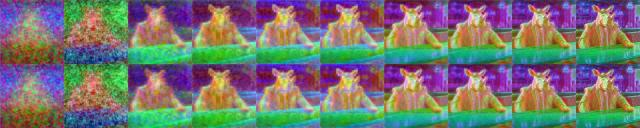
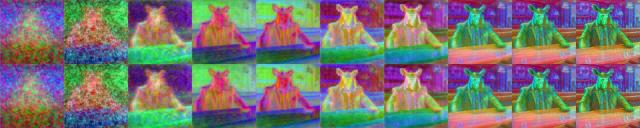
backup

diff --git a/pnp_xl.py b/pnp_xl.py
@@ -55,7 +55,7 @@ logger.add(
     format=f"{green_color_start}{{message}}{green_color_end}",
     level="INFO",
 )
-
+_EPS = 1e-12
 parser = argparse.ArgumentParser()
 parser.add_argument('--prompt', type=str, default="leaning tower of pisa on moon")
 parser.add_argument('--attn_layer', type=str, default="block1-attn2-trans1")
@@ -153,20 +153,22 @@ class StableDiffusion:
             torch.float16 if self.cfg.half_precision_weights else torch.float32
         )
         
-        self.device = torch.device("cuda")
         self.pipe = StableDiffusionXLPipeline.from_pretrained(
                 self.cfg.pretrained_model_name_or_path,
                 torch_dtype=self.weights_dtype, 
             ).to(self.device)
        
-        self.self_attn_map_t = []
-        self.deformed_self_attn_map_t = []
-
-        self.cross_attn_map_t = []
-        self.deformed_cross_attn_map_t = []
-
-        self.feature_maps_t = []
-        self.deformed_feature_maps_t = []
+       
+        attributes = [
+            "self_attn_map_t", 
+            "deformed_self_attn_map_t",
+            "cross_attn_map_t", 
+            "deformed_cross_attn_map_t",
+            "feature_maps_t", 
+            "deformed_feature_maps_t"
+        ]
+        for attr in attributes:
+            setattr(self, attr, [])
         self.np_to_torch = transforms.Compose([transforms.ToTensor()])
 
     @property
@@ -344,8 +346,8 @@ class StableDiffusion:
         self.register_attention(handles, targets)
         self.register_conv(handles, targets)
         if args.deformed:
-            deformer = MeshDeformator(64, 
-                                      64)
+            deformer = MeshDeformator(32, 
+                                      32)
             deformer.find_weights(handles, targets)
             self.coords = deformer.find_deformed_coords()
         for i, t in enumerate(tqdm(timesteps)):
@@ -378,7 +380,14 @@ class StableDiffusion:
 
             # compute the previous noisy sample x_t -> x_t-1
             latents = self.scheduler.step(noise_pred, t, latents, **extra_step_kwargs, return_dict=False)[0]
+            # is_deformed = t in self.deformed_at_t
+            # if is_deformed:
+            #     out = self.vae.decode(latents / self.vae.config.scaling_factor, return_dict=False)[0]
+            #     out = (out / 2 + 0.5).clamp(0, 1).float()
             
+            #     out = out.permute([0, 2, 3, 1]).detach().cpu().numpy()
+            #     plt.imsave("./cu2.jpg", out[0])
+            #     exit()
             
         img = self.vae.decode(latents / self.vae.config.scaling_factor, return_dict=False)[0]
        
@@ -386,18 +395,10 @@ class StableDiffusion:
 
         
 
-        grid_self_attn = self.concatenate_grids(
-            self.create_grid(self.self_attn_map_t), 
-            self.create_grid(self.deformed_self_attn_map_t)
-        )
-        grid_feature_maps = self.concatenate_grids(
-            self.create_grid(self.feature_maps_t), 
-            self.create_grid(self.deformed_feature_maps_t)
-        )
-        grid_cross_attn = self.concatenate_grids(
-            self.create_grid(self.cross_attn_map_t), 
-            self.create_grid(self.deformed_cross_attn_map_t)
-        )
+        grid_self_attn = self._generate_grid(self.self_attn_map_t, self.deformed_self_attn_map_t)
+        grid_feature_maps = self._generate_grid(self.feature_maps_t, self.deformed_feature_maps_t)
+        grid_cross_attn = self._generate_grid(self.cross_attn_map_t, self.deformed_cross_attn_map_t)
+
         return {
             "img": img,
             "self_attn_map_t": grid_self_attn,
@@ -490,13 +491,16 @@ class StableDiffusion:
                     
 
                 is_deformed = args.deformed and module.t in self.deformed_at_t
+                
                 if is_deformed:
                     logger.info("Deform self attention maps")
                     dim = int(sqrt(sim.shape[1]))
 
-                    reshaped_sim = rearrange(sim, 'b (h w) d -> b h w d', h=dim, w=dim).permute([0, 3, 1, 2])
+                    reshaped_sim = rearrange(sim, 'b (h w) d -> b d h w', h=dim, w=dim)
 
                     # Transform the reshaped attention map based on the coordinates
+                    #self.coords = torch.ones_like(self.coords)
+                
                     sim_deformed = F.grid_sample(
                         reshaped_sim, 
                         self.coords.repeat([reshaped_sim.shape[0], 1, 1, 1]), 
@@ -505,7 +509,7 @@ class StableDiffusion:
                     )
                     
                     self_attn_map = rearrange(sim_deformed, 'b d h w-> b (h w) d').softmax(dim=-1)
-
+                    
                 if module.t in self.visualization_at_t:
                     deformed_attn_map = process_and_visualize(self_attn_map)
                     target_list = self.deformed_cross_attn_map_t if is_cross else self.deformed_self_attn_map_t
@@ -519,14 +523,20 @@ class StableDiffusion:
                     sim.masked_fill_(~attention_mask, max_neg_value)
 
                 out = torch.einsum("b i j, b j d -> b i d", self_attn_map, v)
-                
+                # if module.t in self.visualization_at_t[-1:]:
+                #     m = process_and_visualize(out)
+                #     print(m.shape)
+                #     m = m.detach().permute([1, 2, 0]).cpu().numpy()
+                #     plt.imsave("./test.jpg", m)
+                #     exit()
                 out = module.batch_to_head_dim(out)
-                
-                return to_out(out)  
+                out = to_out(out)
+                #out = - 1 * torch.ones_like(out)
+                #out = torch.zeros_like(out)
+                return out
 
             return forward
-        
-        
+       
         numbers = [int(i) for i in re.findall(r'\d+', args.attn_layer)]
         up_blocks_dict = {numbers[0]: {numbers[1]: [numbers[2]]}}
         
@@ -535,10 +545,10 @@ class StableDiffusion:
         setattr(module, 'handles', handles)
         setattr(module, 'targets', targets)
 
-        module = self.unet.up_blocks[numbers[0]].attentions[numbers[1]].transformer_blocks[numbers[2]].attn2
-        module.forward = sa_forward(module)
-        setattr(module, 'handles', handles)
-        setattr(module, 'targets', targets)
+        # module = self.unet.up_blocks[numbers[0]].attentions[numbers[1]].transformer_blocks[numbers[2]].attn2
+        # module.forward = sa_forward(module)
+        # setattr(module, 'handles', handles)
+        # setattr(module, 'targets', targets)
 
     def visualize(self, feature_maps):
         
@@ -548,7 +558,7 @@ class StableDiffusion:
         
         min_vals = feature_maps_pca.min(axis=(0, 1))
         max_vals = feature_maps_pca.max(axis=(0, 1))
-        normalized_maps = (feature_maps_pca - min_vals) / (max_vals - min_vals)
+        normalized_maps = (feature_maps_pca - min_vals) / (max_vals - min_vals + _EPS)
         
         torch_maps = self.np_to_torch(np.clip(normalized_maps, 0., 1.0))
         return torch_maps
@@ -575,7 +585,6 @@ class StableDiffusion:
             io.imsave(output_path, img)
         logger.info(f"Images have been saved to {os.path.dirname(output_path)}")
 
-    
     def register_conv(self,
                     handles,
                     targets):
@@ -636,6 +645,7 @@ class StableDiffusion:
                     self.feature_maps_t.append(features_no_deformed)
 
                 is_deformed = args.deformed and module.t in self.deformed_at_t
+                is_deformed = False
                 if is_deformed:
                     logger.info("Deform feature maps")
 
@@ -674,6 +684,12 @@ class StableDiffusion:
     
     def create_grid(self, tensors):
         return None if not tensors else vutils.make_grid(torch.stack(tensors, 0), nrow=len(tensors), padding=0)
+
+    def _generate_grid(self, original, deformed):
+        return self.concatenate_grids(
+            self.create_grid(original),
+            self.create_grid(deformed)
+        )
 
 @logger.catch
 def main():
